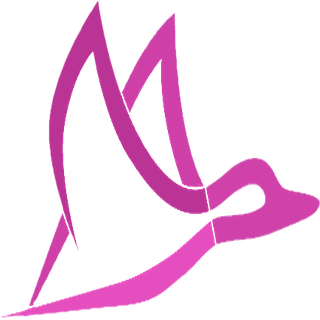
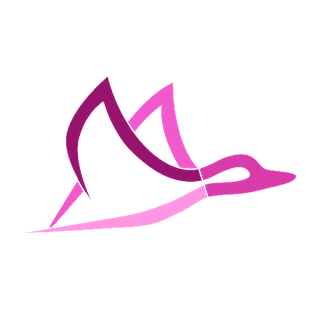
Fix stretched magenta duck, self-host art, drop Tailwind
The magenta duck looked wrong because the recolour cropped to the
artwork's bounding box (425x247) and then resized that to a 320x320
square - stretching it vertically by 1.72x and turning the goose into
something bat-shaped. It now keeps the original square canvas, so its
proportions match the default duck exactly (the game draws both at
size x size). Colours are mapped per family rather than off a flat
luminance ramp, which had merged the separate wing strokes into one
mass.

Self-hosted the artwork. Every image was loaded from imgur, putting
the whole game behind a third-party host: if it rate-limited or went
down, players got a broken game. All seven images now ship from
assets/ (364K total).

Dropped the Tailwind CDN. It pulled a large stylesheet over the
network to style one dialog and logged a production warning on every
load. The modal is now ~50 lines of plain CSS; .hidden/.flex are kept
as-is because the game's JS toggles them by name. The name field also
gets font-size 16px, which stops iOS zooming the page on focus, and
autocomplete="off" so the browser cannot autofill a stray value into
a leaderboard submission.

Menu crossfade now composites with the canvas's globalAlpha instead
of p5's tint(). Measured: tint() triggers one full-screen getImageData
readback per call, globalAlpha triggers none - that was ~70
multi-megabyte readbacks per theme transition.

Changed region(s): [[0.0, 0.0, 1.0, 1.0]]

diff --git a/index.html b/index.html
@@ -4,7 +4,6 @@
    <meta charset="UTF-8">
    <meta name="viewport" content="width=device-width, initial-scale=1.0, maximum-scale=1.0, user-scalable=no">
    <title>Dux-Soup High Fly</title>
-   <script src="https://cdn.tailwindcss.com"></script>
    <script src="https://cdnjs.cloudflare.com/ajax/libs/p5.js/1.4.2/p5.min.js"></script>
    <link href="https://fonts.googleapis.com/css2?family=Press+Start+2P&family=Inter:wght@400;700&display=swap" rel="stylesheet">
    <style>
@@ -28,21 +27,85 @@
        .pixel-font {
            font-family: 'Press Start 2P', cursive;
        }
+
+       /* Name-entry modal. Previously styled with the Tailwind CDN, which
+          pulled a large stylesheet over the network for this one dialog (and
+          warned about production use on every load). The .hidden/.flex
+          utilities are kept because the game's JS toggles them by name. */
+       .hidden { display: none !important; }
+       .flex { display: flex !important; }
+
+       .modal-overlay {
+           position: absolute;
+           inset: 0;
+           width: 100%;
+           height: 100%;
+           display: flex;
+           align-items: center;
+           justify-content: center;
+           background: rgba(0, 0, 0, 0.55);
+           z-index: 50;
+       }
+       .modal-card {
+           background: #1f2937;
+           color: #e5e7eb;
+           border-radius: 12px;
+           box-shadow: 0 10px 30px rgba(0, 0, 0, 0.5);
+           padding: 24px;
+           width: 92%;
+           max-width: 24rem;
+           text-align: center;
+       }
+       .modal-title {
+           font-size: 1.35rem;
+           line-height: 1.5;
+           color: #93b4ff;
+           margin: 0 0 16px;
+       }
+       .modal-text { margin: 0 0 16px; }
+       #name-input {
+           width: 100%;
+           box-sizing: border-box;
+           padding: 10px;
+           border: 2px solid #4b5563;
+           border-radius: 8px;
+           margin-bottom: 16px;
+           /* 16px keeps iOS from zooming the page when the field is focused */
+           font-size: 16px;
+           font-family: 'Inter', sans-serif;
+       }
+       .btn {
+           display: block;
+           width: 100%;
+           box-sizing: border-box;
+           border: none;
+           border-radius: 8px;
+           padding: 12px 16px;
+           font-family: 'Inter', sans-serif;
+           font-weight: 700;
+           font-size: 1rem;
+           color: #fff;
+           cursor: pointer;
+       }
+       .btn-submit { background: #3b82f6; }
+       .btn-submit:hover { background: #2563eb; }
+       .btn-start { background: #22c55e; }
+       .btn-start:hover { background: #16a34a; }
    </style>
 </head>
 <body>
 
-   <div id="name-modal" class="absolute inset-0 w-full h-full bg-black/50 items-center justify-center z-50 hidden">
-       <div class="bg-white dark:bg-gray-800 rounded-lg shadow-lg p-6 w-11/12 max-w-sm text-center">
-           <h2 class="pixel-font text-2xl text-blue-600 dark:text-blue-400 mb-4">New High Score!</h2>
-           <p class="mb-4 text-gray-700 dark:text-gray-200">Enter your name for the leaderboard:</p>
-           
+   <div id="name-modal" class="modal-overlay hidden">
+       <div class="modal-card">
+           <h2 class="pixel-font modal-title">New High Score!</h2>
+           <p class="modal-text">Enter your name for the leaderboard:</p>
+
            <div id="input-container" class="hidden">
-                <input type="text" id="name-input" class="w-full p-2 border-2 border-gray-300 rounded-md mb-4" placeholder="Your Name" maxlength="10">
-                <button id="submit-score-btn" class="w-full bg-blue-500 hover:bg-blue-600 text-white font-bold py-2 px-4 rounded-lg">Submit</button>
+                <input type="text" id="name-input" placeholder="Your Name" maxlength="10" autocomplete="off">
+                <button id="submit-score-btn" class="btn btn-submit">Submit</button>
            </div>
-           
-           <button id="show-keyboard-btn" class="w-full bg-green-500 hover:bg-green-600 text-white font-bold py-2 px-4 rounded-lg">Tap to Enter Name</button>
+
+           <button id="show-keyboard-btn" class="btn btn-start">Tap to Enter Name</button>
        </div>
    </div>
 
@@ -181,7 +244,7 @@
 
 <script>
        // Your p5.js game code
-       const DEPLOY_VERSION = '1.9.0';
+       const DEPLOY_VERSION = '1.10.0';
        let bird;
        let birdImg, secretBirdImg, titleImg, sunImg, moonImg;
        let dayCloudImgs = [], nightCloudImgs = [];
@@ -255,16 +318,19 @@
            }
        }
        
+       // All art is served from this project. It used to load from imgur,
+       // which put every image behind a third-party host the game has no
+       // control over - if it rate-limited or went down, the game broke.
        function preload() {
-           birdImg = loadImage("https://i.imgur.com/3erQEDH.png");
+           birdImg = loadImage("assets/dux.png");
            secretBirdImg = loadImage("assets/dux-magenta.png");
-           titleImg = loadImage("https://i.imgur.com/kf0McQi.png");
-           sunImg = loadImage("https://i.imgur.com/y9Clgrb.png");
-           moonImg = loadImage("https://i.imgur.com/6h9c1qN.png");
-           
-           dayCloudImgs.push(loadImage("https://i.imgur.com/SOjH8e9.png"));
-           nightCloudImgs.push(loadImage("https://i.imgur.com/bmcm6dy.png"));
-           nightCloudImgs.push(loadImage("https://i.imgur.com/Fcg1ISx.png"));
+           titleImg = loadImage("assets/title.png");
+           sunImg = loadImage("assets/sun.png");
+           moonImg = loadImage("assets/moon.png");
+
+           dayCloudImgs.push(loadImage("assets/cloud-day.png"));
+           nightCloudImgs.push(loadImage("assets/cloud-night-1.png"));
+           nightCloudImgs.push(loadImage("assets/cloud-night-2.png"));
        }
        
        function setup() {
@@ -610,11 +676,15 @@
 
            if (fade > 0) {
                drawThemeTo(menuBufB, MENU_THEMES[(idx + 1) % MENU_THEMES.length]);
+               // Composite with the context's own alpha rather than p5's
+               // tint(): tint copies the image and runs getImageData over it,
+               // which on a full-screen buffer is a multi-megabyte pixel
+               // readback every frame of the fade.
                push();
-               tint(255, fade * 255);
+               drawingContext.globalAlpha = fade;
                image(menuBufB, 0, 0);
+               drawingContext.globalAlpha = 1;
                pop();
-               noTint();
            }
        }
 
